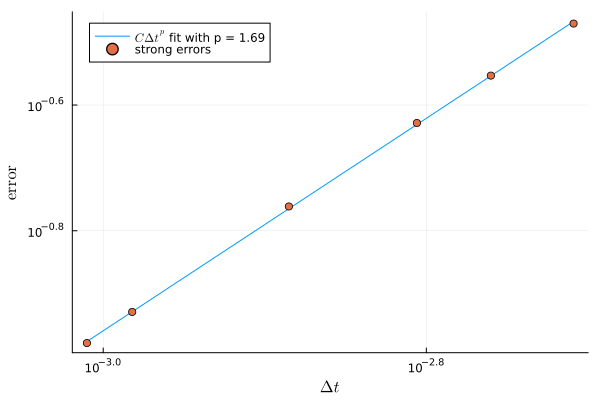
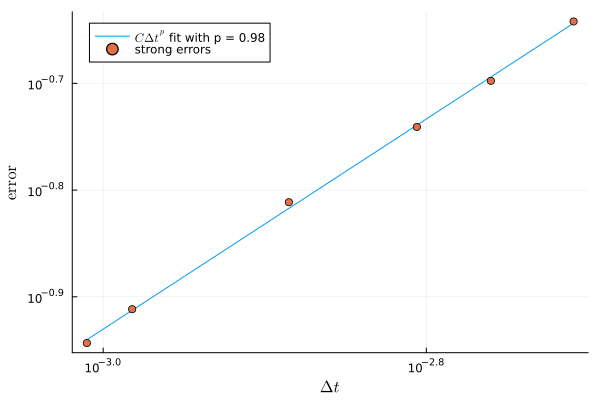
adjust parameters

diff --git a/docs/src/examples/09-fisherkpp.md b/docs/src/examples/09-fisherkpp.md
@@ -4,23 +4,25 @@ EditURL = "https://github.com/rmsrosa/rode_conv_em/docs/literate/examples/09-fis
 
 # Random Fisher-KPP partial differential equation
 
-Here we simulate a Fisher-KPP equation with random boundary conditions, as inspired by the works of [Salako & Shen (2020)](https://doi.org/10.1007/s10884-020-09847-2) and [Freidlin & Wentzell (1992)](https://doi.org/10.1214/aop/1176989813)). The first work addresses the Fisher-KPP equation with a random reaction coefficient, while the second work considers more general reaction-diffusion equations but driven by random boundary conditions. Here, we consider the Fisher-KPP equation driven by random Neumann-type boundary conditions. The intent here is to illustrate the strong order 1 convergence rate on a nonlinear partial differential equation.
+Here we simulate a Fisher-KPP equation with random boundary conditions, as inspired by the works of [Salako & Shen (2020)](https://doi.org/10.1007/s10884-020-09847-2) and [Freidlin & Wentzell (1992)](https://doi.org/10.1214/aop/1176989813)). The first work addresses the Fisher-KPP equation with a random reaction coefficient, while the second work considers more general reaction-diffusion equations but driven by random boundary conditions.
+
+Here, we consider the Fisher-KPP equation driven by Neumann boundary conditions, with a random influx on the left end point and no flux on the right end point. The intent here is to illustrate the strong order 1 convergence rate on a nonlinear partial differential equation.
 
 We use the method of lines (MOL), with finite differences in space, to approximate the random partial differential equation (PDE) by a system of random ODEs.
 
-The equation is a nonlinear parabolic equation of reaction-diffusion type, modeling inhomogeneous population growth and displaying wave propagation. We force the system with random incoming/outcoming population fluctuations on the frontiers of the spatial domain.
+The equation is a nonlinear parabolic equation of reaction-diffusion type, modeling inhomogeneous population growth displaying wave propagation, and many other phenomena such as combustion front wave propagation, physiollogy and crystallography pattern formation, and so on. We force the system with a random incoming population on one of the boundaries of the spatial domain.
 
 ## The equation
 
 The equation takes the form
 
 ```math
-  \frac{\partial u}{\displaystyle \partial t} = \frac{\partial^2 u}{\partial x^2} + u(1 - u), \quad (t, x) \in (0, \infty) \times (0, 1),
+  \frac{\partial u}{\displaystyle \partial t} = \mu\frac{\partial^2 u}{\partial x^2} + \lambda u(1 - \frac{u}{u_m}), \quad (t, x) \in (0, \infty) \times (0, 1),
 ```
 endowed with the boundary conditions
 
 ```math
-  \frac{\partial u}{\partial x}(t, 0) = A_t, \quad \frac{\partial u}{\partial x}(t, 1) = - B_t
+  \frac{\partial u}{\partial x}(t, 0) = - Y_t, \quad \frac{\partial u}{\partial x}(t, 1) = 0,
 ```
 
 and a given a initial condition
@@ -28,21 +30,25 @@ and a given a initial condition
   u(0, x) = u_0(x).
 ```
 
-The unknown $u(t, x)$ represents the population density at time $t$ and point $x$, relative to a given saturation value.
+The unknown $u(t, x)$ represents the density of a given quantity at time $t$ and point $x$; $D$ is a diffusivity coefficient; $\lambda$ is a reaction, or proliferation, coefficient; and $u_m$ is a carrying capacity density coefficient.
 
-The initial condition is taken to be of the form
+The random process $\{Y_t\}_t$ which drives the flux on the left boundary point, is taken to be a colored noise modulated by a exponentially decaying Hawkes process, representing random trains of incoming population.
+
+This equation displays traveling wave solutions with a minimum wave speed of $2 \sqrt{\lambda \mu}$. We choose $\lambda = 10$ and $μ= 0.009$, so the limit traveling speed is about $0.6$. The carrying capacity is set to $u_m = 1.0$.
+
+The initial condition is taken to be zero, $u\_0(x) = 0$, so all the population originates from the left boundary influx.
+
+The mass within the region $0\leq x \leq 1$ satisfies
+
 ```math
-  u_0(x) = 2(x-1)^2(x + 1/2) = 2x^3 -3x^2 + 1,
-```
-so that
-```math
-  u_0(0) = 1, \quad u_0(1) = 0, \quad u_0'(0) = u_0'(1) = 0.
+  \frac{\mathrm{d}}{\mathrm{d} t} \int_0^1 u(t, x) \;\mathrm{d}x = \mu\int_0^1 u_{xx}(t, x) \;\mathrm{d}x + \lambda \int_0^1 u(t, x)\left(1 - \frac{u(t, x)}{u_m}\right)\;\mathrm{d}x.
 ```
 
-````@example 09-fisherkpp
-using Plots # hide
-plot(0.0:0.01:1.0, x -> 2x^3 - 3x^2 + 1, title="Initial condition", titlefont=8, legend=nothing) # hide
-````
+Using the boundary conditions, we find that
+```math
+  \frac{\mathrm{d}}{\mathrm{d} t} \int_0^1 u(t, x) \;\mathrm{d}x = μY_t  + \frac{\lambda}{u_m} \int_0^1 u(t, x)\left(u_m - u(t, x)\right)\;\mathrm{d}x,
+```
+which is nonnegative, provided $0 \leq u \leq u_m$ and $Y_t \geq 0$.
 
 ## Numerical approximation
 
@@ -79,20 +85,16 @@ l = 16
 
 Notice that for the target solution we need a very fine *time* mesh, on top of having to repeat the simulation a number of times for the Monte-Carlo estimate. This is computationally demanding for large `l`, so we choose a moderate number just for illustration purpose.
 
-The initial condition is
+The initial mass is zero
 
 ````@example 09-fisherkpp
-u₀(x) = 2x^3 - 3x^2 + 1
+u₀(x) = 0.0
 ````
 
 The discretized initial condition is then
 
 ````@example 09-fisherkpp
 u0law = product_distribution(Tuple(Dirac(u₀((j-1) / (l-1))) for j in 1:l)...)
-
-plot(title="Discretized initial condition", titlefont=8, xlabel="\$x\$", ylabel="\$u\$")
-plot!(0.0:0.01:1.0, u₀, label="initial condition")
-scatter!((0:l-1) ./ (l-1), u₀, label="discretization")
 ````
 
 For the discretization of the equation we use finite differences with the classic second-order discretization of the second derivative:
@@ -110,7 +112,7 @@ Notice this goes up to the boundary points $j=1$ and $j=l$, corresponding to $x=
 on the boundary points $j=1$ and $j=l$, so that
 
 ```math
-  u(t, x_0) = u(t, x_2) - A_t \Delta x, \qquad u(t, x_{l}) = u(t, x_{l-2}) + B_t \Delta x.
+  u(t, x_0) = u(t, x_2) + 2Y_t \Delta x, \qquad u(t, x_{l+1}) = u(t, x_{l-1}).
 ```
 
 These points are plugged into the second-order approximation of the second derivatives at the boundary points.
@@ -121,22 +123,26 @@ This yields the following in-place formulation for the right-hand side of the MO
 function f!(du, t, u, y)
     axes(u, 1) isa Base.OneTo || error("indexing of `x` should be Base.OneTo")
 
+    μ = 0.009
+    λ = 10.0
+    cₘ = 1.0
+
     l = length(u)
     dx = 1.0 / (l - 1)
     dx² = dx ^ 2
 
     # interior points
     for j in 2:l-1
-        du[j] = (u[j-1] - 2u[j] + u[j+1]) / dx² + u[j] * (1.0 - u[j])
+        du[j] = μ * (u[j-1] - 2u[j] + u[j+1]) / dx² + λ * u[j] * (1.0 - u[j] / cₘ)
     end
 
     # ghost points
-    gh1 = u[2] - 2dx * y[1]
-    gh2 = u[l-1] - 2dx * y[2]
+    gh0 = u[2] + 2dx * max(0.0, y[1] * y[2])
+    ghl1 = u[l-1]
 
     # boundary points
-    du[1] = ( u[2] - 2u[1] + gh1 ) / dx² + u[1] * ( 1.0 - u[1] )
-    du[l] = ( gh2 - 2u[l] + u[l-1] ) / dx² + u[l] * ( 1.0 - u[l] )
+    du[1] = μ * ( u[2] - 2u[1] + gh0 ) / dx² + λ * u[1] * ( 1.0 - u[1] / cₘ )
+    du[l] = μ * ( ghl1 - 2u[l] + u[l-1] ) / dx² + λ * u[l] * ( 1.0 - u[l] / cₘ )
     return nothing
 end
 ````
@@ -144,12 +150,16 @@ end
 Alternatively, we may use a second-order forward difference scheme for the first derivative at the left end point and a backward one at the right end point:
 
 ```math
-  \frac{\partial u}{\partial x}(t, x_j) \approx \frac{-u(t, x_{j+2} + 4u(t, x_{j+1}) - 3u(t, x_{j}))}{2\Delta x}, \quad \frac{\partial u}{\partial x}(t, x_j) \approx \frac{3u(t, x_{j} - 4u(t, x_{j-1}) + u(t, x_{j-2}))}{2\Delta x}.
+  \frac{\partial u}{\partial x}(t, x_j) \approx \frac{-u(t, x_{j+2}) + 4u(t, x_{j+1}) - 3u(t, x_{j})}{2\Delta x}, \quad \frac{\partial u}{\partial x}(t, x_j) \approx \frac{3u(t, x_{j}) - 4u(t, x_{j-1}) + u(t, x_{j-2})}{2\Delta x}.
 ```
 
 ````@example 09-fisherkpp
 function f_alt!(du, t, u, y)
     axes(u, 1) isa Base.OneTo || error("indexing of `x` should be Base.OneTo")
+
+    μ = 0.009
+    λ = 10.0
+    cₘ = 1.0
 
     l = length(u)
     dx = 1.0 / (l - 1)
@@ -157,16 +167,16 @@ function f_alt!(du, t, u, y)
 
     # interior points
     for j in 2:l-1
-        du[j] = (u[j-1] - 2u[j] + u[j+1]) / dx² + u[j] * (1.0 - u[j])
+        du[j] = μ * (u[j-1] - 2u[j] + u[j+1]) / dx² + λ * u[j] * (1.0 - u[j] / cₘ)
     end
 
     # ghost points
-    gh1 = ( 4 * u[2] - u[1] ) / 3 + 2dx * y[1]
-    gh2 = ( 4 * u[l] - u[l-1]) / 3 - 2dx * y[2]
+    gh0 = ( 4 * u[1] - u[2]  + 2dx * max(0.0, y[1] * y[2]) ) / 3
+    ghl1 = ( 4 * u[l] - u[l-1] ) / 3
 
     # boundary points
-    du[1] = ( u[2] - 2u[1] + gh1 ) / dx² + u[1] * ( 1.0 - u[1] )
-    du[l] = ( gh2 - 2u[l] + u[l-1] ) / dx² + u[l] * ( 1.0 - u[l] )
+    du[1] = μ * ( u[2] - 2u[1] + gh0 ) / dx² + λ * u[1] * ( 1.0 - u[1] / cₘ )
+    du[l] = μ * ( ghl1 - 2u[l] + u[l-1] ) / dx² + λ * u[l] * ( 1.0 - u[l] / cₘ )
     return nothing
 end
 ````
@@ -177,46 +187,118 @@ Now we make sure this is non-allocating. We use a finer spatial mesh for testing
 xx = 0.0:0.01:1.0
 u = sin.(π * xx) .^ 2
 du = similar(u)
+du_alt = similar(u)
 y = [0.0, 0.0]
 t = 0.0
 f!(du, t, u, y)
+f_alt!(du_alt, t, u, y)
+nothing # hide
+````
 
+Visualize the results
+
+````@example 09-fisherkpp
 plot(xx, u, label="u")
 plot!(xx, du, label="du/dt")
+plot!(xx, du_alt, label="du/dt alt")
 ````
+
+and check performace
 
 ````@example 09-fisherkpp
 @btime f!($du, $t, $u, $y)
 nothing # hide
 ````
 
-The noise is an approximation of a white noise
+````@example 09-fisherkpp
+@btime f_alt!($du, $t, $u, $y)
+nothing # hide
+````
+
+The noise is a colored Ornstein-Uhlenbeck noise truncated to non-negative values and modulated by a Hawkes process, which is implemented as two separate noises, which are combined within `f!`.
+
+The Ornstein-Uhlenbeck is defined as follows
 
 ````@example 09-fisherkpp
 y0 = 0.0
-ν = 200.0 # = 1 / 0.005 => time-scale = 0.005
-σ = 10.0 # variance σ^2 / 2ν = 0.25
-noise = ProductProcess(OrnsteinUhlenbeckProcess(t0, tf, y0, ν, σ), OrnsteinUhlenbeckProcess(t0, tf, y0, ν, σ))
+τ = 0.005 # time scale
+σ̃ = 0.1 # large-scale diffusion
+ν = 1/τ # drift
+σ = σ̃/τ # diffusion
+colored_noise = OrnsteinUhlenbeckProcess(t0, tf, y0, ν, σ)
+````
+
+And the exponentially-decaying Hawkes process is defined by
+
+````@example 09-fisherkpp
+λ₀ = 3.0
+a = 0.3
+δ = 5.0
+β = 1.8
+θ = 1/β
+dylaw = Exponential(θ)
+
+hawkes_envelope_noise = ExponentialHawkesProcess(t0, tf, λ₀, a, δ, dylaw)
+````
+
+The are combined into the following [`ProductProcess`](@ref)
+
+````@example 09-fisherkpp
+noise = ProductProcess(colored_noise, hawkes_envelope_noise)
+````
+
+Here is a sample path of the two noises
+
+````@example 09-fisherkpp
+tt = range(t0, tf, length=2^9)
+yt = Matrix{Float64}(undef, 2^9, 2)
+rand!(rng, noise, yt)
 ````
 
 ````@example 09-fisherkpp
-ntgt = 2^22
-ns = 2 .^ (9:11)
-
-ntgt = 2^15 * 3^3 * 5
-ns = [2^10, 2^7 * 3^2, 2^8 * 5, 2^9 * 3, 2^7 * 3 * 5, 2^11]
-all(mod(ntgt, n) == 0 for n in ns)
-ntgt ≥ last(ns)^2
-m = 1_000
+plot(tt, yt, label=["OU" "Hawkes"], xlabel="\$t\$", ylabel="\$y\$")
 ````
 
-And add some information about the simulation:
+and the modulated and truncated colored noise
+
+````@example 09-fisherkpp
+plot(tt, map(y -> max(0.0, y[1] * y[2]), eachrow(yt)), label="noise", xlabel="\$t\$", ylabel="\$y\$")
+````
+
+We also make sure drawing a noise sample path does not allocate
+
+````@example 09-fisherkpp
+@btime rand!($rng, $noise, $yt)
+nothing # hide
+````
+
+Now we set up the mesh parameters. For stability reasons, we can't allow the time mesh to be too coarse, so we pack the mesh resolutions `ns` within a narrow region:
+
+````@example 09-fisherkpp
+ntgt = 2^15 * 3^3 * 5
+ns = [2^10, 2^7 * 3^2, 2^8 * 5, 2^9 * 3, 2^7 * 3 * 5, 2^11]
+nothing # hide
+````
+
+and make sure they meet all the requirements:
+
+````@example 09-fisherkpp
+all(mod(ntgt, n) == 0 for n in ns) && ntgt ≥ last(ns)^2
+````
+
+The number of simulations for the Monte-Carlo estimate of the rate of strong convergence
+
+````@example 09-fisherkpp
+m = 100
+````
+
+We then add some information about the simulation:
 
 ````@example 09-fisherkpp
 info = (
     equation = "Fisher-KPP equation",
-    noise = "Orstein-Uhlenbeck modulated by a transport process",
-    ic = "\$X_0 = 2(x - 1)^2(x + 1/2)\$"
+    noise = "Hawkes-modulated colored noise",
+    ic = "\$X_0 = 0\$"
 )
 ````
 
@@ -278,11 +360,15 @@ For the sake of illustration, we plot the evolution of a sample target solution:
 ````@example 09-fisherkpp
 dt = (tf - t0) / (ntgt - 1)
 
-anim = @animate for i in 1:div(ntgt, 2^10):div(ntgt, 2^2)
-    plot(range(0.0, 1.0, length=l), view(suite.xt, i, :), ylim=(0.0, 1.0), xlabel="\$x\$", ylabel="\$u\$", fill=true, title="population density at time t = $(round((i * dt), digits=3))", legend=false)
+@time anim = @animate for i in 1:div(ntgt, 2^7):div(ntgt, 1)
+    plot(range(0.0, 1.0, length=l), view(suite.xt, i, :), ylim=(0.0, 1.1), xlabel="\$x\$", ylabel="\$u\$", fill=true, title="population density at time t = $(round((i * dt), digits=3))", legend=false)
 end
 
-gif(anim, joinpath(@__DIR__() * "../../../../latex/img/","fisherkpp.gif"), fps = 30) # hide
+nothing # hide
+````
+
+````@example 09-fisherkpp
+gif(anim, fps = 30) # hide
 ````
 
 ---
